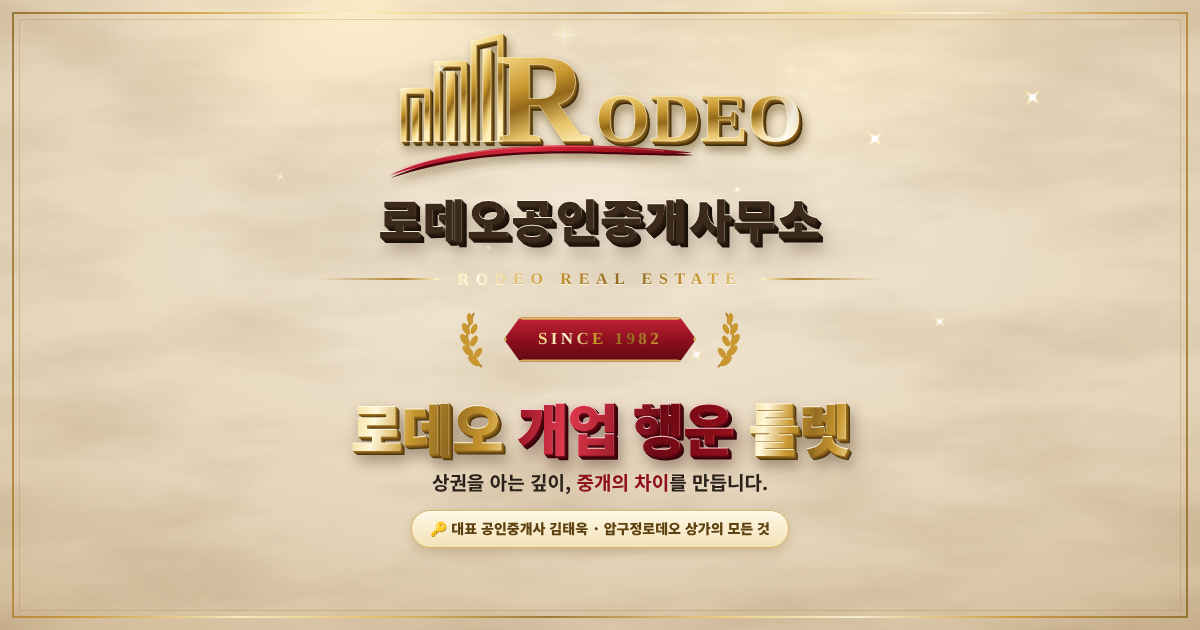
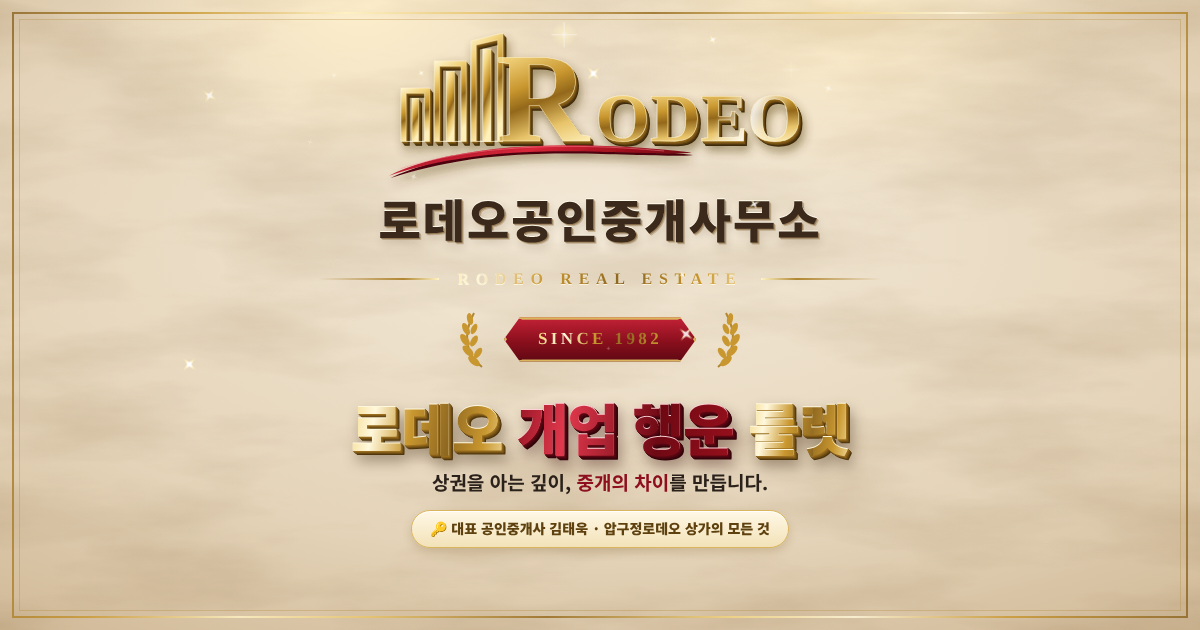
event: 로고 아래 상호명 그림자를 은은하게 조정
Claude-Session: https://claude.ai/code/session_01C59cuFhbd5f5LrR2cDgZX9

Changed region(s): [[0.3083, 0.3016, 0.7092, 0.4222], [0.5858, 0.1508, 0.6783, 0.2413], [0.555, 0.5127, 0.5858, 0.5429]]

diff --git a/event/index.html b/event/index.html
@@ -33,7 +33,7 @@ animation:twinkle var(--d,2.6s) ease-in-out var(--delay,0s) infinite;filter:drop
 .head{position:relative;text-align:center}
 .logo{display:block;width:100%;max-width:480px;height:auto;margin:0 auto;overflow:visible}
 .brand{margin:2px 0 0;font-size:clamp(28px,5vw,46px);font-weight:900;letter-spacing:2px;color:#3B2A1B;
-text-shadow:0 -1px 0 rgba(255,246,222,.9),1px 1px 0 #2C1F13,2px 2px 0 #271B10,3px 3px 0 #22170D,4px 4px 0 #1D130A,5px 5px 0 #180F08,7px 11px 14px rgba(60,40,18,.42)}
+text-shadow:0 -1px 0 rgba(255,250,235,.95),1px 1px 0 rgba(120,86,40,.55),2px 2px 0 rgba(120,86,40,.3),2px 5px 10px rgba(60,40,18,.18)}
 .en{display:flex;align-items:center;justify-content:center;gap:18px;margin-top:12px;font-size:clamp(11px,1.9vw,16px);font-weight:600;letter-spacing:.42em}
 .en b{background:var(--foil);background-size:200% 100%;-webkit-background-clip:text;background-clip:text;color:transparent;animation:foil 5s linear infinite;filter:drop-shadow(0 1px 0 rgba(255,250,230,.9))}
 .en i{display:block;width:clamp(40px,11vw,120px);height:2px;background:linear-gradient(90deg,rgba(176,134,50,0),#B08632 70%,#FFF3C4)}
